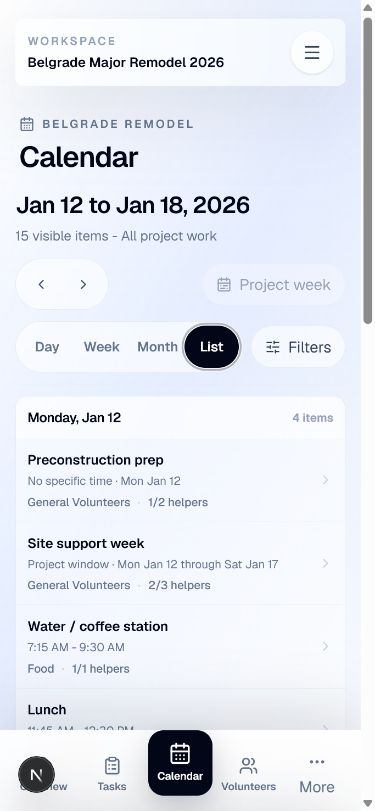
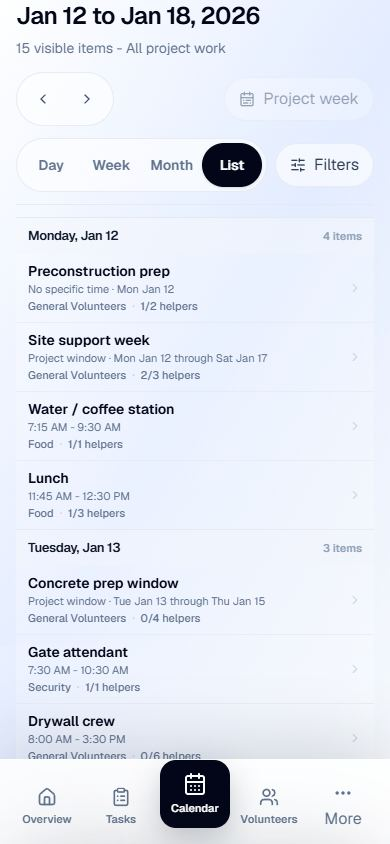
09.41 calendar list density polish

diff --git a/cvc-scheduler/app/admin/calendar/page.tsx b/cvc-scheduler/app/admin/calendar/page.tsx
@@ -1548,7 +1548,7 @@ function CalendarListView({
 
   if (groups.length === 0) {
     return (
-      <section className="rounded-xl border border-slate-200/80 bg-white/40 px-4 py-8 text-center">
+      <section className="border-y border-slate-200/80 bg-white/24 px-3 py-6 text-center">
         <p className="text-sm font-medium text-slate-500">
           No project work to show this week.
         </p>
@@ -1558,7 +1558,7 @@ function CalendarListView({
 
   return (
     <div
-      className="overflow-hidden rounded-xl border border-slate-200/80 bg-white/52"
+      className="overflow-hidden border-y border-slate-200/90 bg-white/24"
       data-testid="calendar-list-view"
     >
       {groups.map((group) => {
@@ -1567,19 +1567,19 @@ function CalendarListView({
         return (
           <section
             aria-labelledby={headingId}
-            className="border-b border-slate-200/80 last:border-b-0"
+            className="border-b border-slate-200/70 last:border-b-0"
             key={group.date}
           >
-            <header className="flex min-h-11 items-center justify-between gap-3 bg-white/46 px-3 py-2 sm:px-4">
+            <header className="flex min-h-9 items-center justify-between gap-3 bg-slate-100/38 px-3 py-1.5">
               <h3
-                className="text-sm font-semibold tracking-tight text-slate-950"
+                className="text-[13px] font-semibold tracking-tight text-slate-900"
                 id={headingId}
               >
                 <time dateTime={group.date}>
                   {getCalendarAccessibleDayLabel(group.date)}
                 </time>
               </h3>
-              <span className="shrink-0 text-xs font-semibold text-slate-400">
+              <span className="shrink-0 text-[11px] font-semibold text-slate-400">
                 {group.items.length} item{group.items.length === 1 ? "" : "s"}
               </span>
             </header>
@@ -1593,29 +1593,29 @@ function CalendarListView({
 
                 return (
                   <div
-                    className="border-t border-slate-200/70 first:border-t-0"
+                    className="border-t border-slate-200/60 first:border-t-0"
                     key={item.id}
                     role="listitem"
                   >
                     <button
                       aria-label={getCalendarListItemAccessibleLabel(item)}
                       className={[
-                        `grid min-h-16 w-full min-w-0 grid-cols-[minmax(0,1fr)_auto] items-center gap-x-3 px-3 py-3 text-left transition hover:bg-white/58 sm:min-h-14 sm:grid-cols-[minmax(0,1fr)_minmax(13rem,0.9fr)_auto_auto] sm:px-4 ${calmFocusRing}`,
+                        `grid min-h-[60px] w-full min-w-0 grid-cols-[minmax(0,1fr)_auto] items-center gap-x-2.5 px-3 py-2 text-left transition hover:bg-white/44 sm:min-h-12 sm:grid-cols-[minmax(0,1fr)_minmax(0,0.85fr)_auto_auto] sm:gap-x-3 ${calmFocusRing}`,
                         selectedId === item.id
-                          ? "bg-white/72 ring-2 ring-inset ring-slate-900/25"
+                          ? "bg-white/64 ring-2 ring-inset ring-slate-900/25"
                           : "",
                       ].join(" ")}
                       onClick={() => onSelect(item)}
                       type="button"
                     >
                       <div className="min-w-0">
-                        <p className="truncate text-sm font-semibold text-slate-950">
+                        <p className="truncate text-sm font-semibold leading-[18px] text-slate-950">
                           {getCalendarItemDisplayName(item)}
                         </p>
-                        <p className="mt-1 text-xs leading-4 text-slate-500 sm:hidden">
+                        <p className="mt-0.5 text-[11px] leading-[15px] text-slate-500 sm:hidden">
                           {scheduleLabel}
                         </p>
-                        <p className="mt-1.5 flex flex-wrap items-center gap-x-2 gap-y-1 text-xs font-medium text-slate-500 sm:hidden">
+                        <p className="mt-0.5 flex flex-wrap items-center gap-x-1.5 gap-y-0.5 text-[11px] font-medium leading-[15px] text-slate-500 sm:hidden">
                           <span>{typeLabel}</span>
                           <span aria-hidden="true" className="text-slate-300">
                             ·
@@ -1627,15 +1627,15 @@ function CalendarListView({
                       <p className="hidden min-w-0 text-xs leading-5 text-slate-500 sm:block">
                         {scheduleLabel}
                       </p>
-                      <span className="hidden whitespace-nowrap rounded-full bg-slate-100/80 px-2.5 py-1 text-xs font-semibold text-slate-600 sm:inline-flex">
+                      <span className="hidden whitespace-nowrap text-[11px] font-medium text-slate-500 sm:inline">
                         {typeLabel}
                       </span>
-                      <span className="hidden whitespace-nowrap text-xs font-semibold text-slate-600 sm:inline">
+                      <span className="hidden whitespace-nowrap text-[11px] font-semibold text-slate-600 sm:inline">
                         {getCalendarFilledLabel(item)} helpers
                       </span>
                       <ChevronRight
                         aria-hidden="true"
-                        className="h-4 w-4 shrink-0 text-slate-300 sm:hidden"
+                        className="h-3.5 w-3.5 shrink-0 text-slate-300 sm:hidden"
                       />
                     </button>
                   </div>

diff --git a/cvc-scheduler/docs/PROJECT_HISTORY.md b/cvc-scheduler/docs/PROJECT_HISTORY.md
@@ -2196,6 +2196,45 @@ Limitations:
 Next recommended step:
 - 09.41 Calendar List View Visual QA + Density Polish.
 
+## Iteration 09.41 — Calendar List View Visual QA + Density Polish
+
+Summary:
+- Flattened the List surface by removing its enclosing rounded-card treatment and retaining only quiet top/bottom framing and row dividers.
+- Reduced date headers to 36px and desktop rows to 48px so dense weeks scan as a list rather than a card stack.
+- Replaced desktop type pills with plain compact type text while preserving name, schedule, type, and helper columns.
+- Tightened mobile secondary typography and spacing to consistent 68px rows while keeping the task name prominent, all metadata readable, and the full row thumb-friendly.
+- Preserved the 09.40 grouping, sorting, one-row project-window rule, accessible names, filters, Week navigation, inspector behavior, and overlay exclusivity.
+- Hardened Calendar screenshot capture so it verifies the requested view is pressed and waits for the shared control transition before capture.
+- Refreshed only the desktop and mobile List previews through the targeted production screenshot workflow.
+
+Changed files:
+- `app/admin/calendar/page.tsx`
+- `scripts/capture-previews.mjs`
+- `docs/CALENDAR_DATA_MODEL_READINESS.md`
+- `docs/CURRENT_STATE.md`
+- `docs/PROJECT_HISTORY.md`
+- `docs/ROADMAP.md`
+- `docs/previews/latest/calendar-list.jpg`
+- `docs/previews/latest/mobile-calendar-list.jpg`
+
+Verification:
+- `npm run lint` passed.
+- `npm run build` passed.
+- Targeted production `npm run preview:screenshots` passed for `calendar-list.jpg` and `mobile-calendar-list.jpg`.
+- Desktop QA confirmed 36px headers, 48px rows, no outer radius, plain type labels, 15 unchanged rows, and no document/List overflow.
+- Mobile QA at 390px confirmed consistent 68px rows, four complete rows plus the next date header in the initial viewport, 57px-wide view controls, and no document/List overflow.
+- Food filtering returned the expected four rows; next/Project week navigation, Day/Week/Month/List switching, inspector opening, Escape/focus restoration, and mobile More exclusivity remained intact.
+- No nested interactive controls, console errors, page errors, or hydration warnings were reported in the application QA browser.
+
+Limitations:
+- This is visual density polish only; List remains local mock presentation with Week-period navigation and no List-based creation affordance.
+- Secondary mobile metadata uses compact 11px text to keep three readable lines within the 68px row; continued device testing may justify a small typography adjustment.
+- The production data/query, timezone, assignment truth, and schedule-kind limitations documented in 09.40 remain unchanged.
+- No persistence, Supabase, mutations, URL state, routes, drag/drop, resizing, Timeline view, schema, or production scheduling logic was added.
+
+Next recommended step:
+- 09.42 Calendar Interaction Regression Test Foundation.
+
 ## Documentation Maintenance Rules
 
 - Every future Codex iteration should update `PROJECT_HISTORY.md` with a concise entry.

diff --git a/cvc-scheduler/docs/ROADMAP.md b/cvc-scheduler/docs/ROADMAP.md
@@ -78,7 +78,8 @@ Rough phases:
 - 09.38 Calendar Month Density + Day View Date-Based Cleanup. Completed.
 - 09.39 Calendar Terminology Cleanup. Completed.
 - 09.40 Calendar List View Foundation. Completed.
-- 09.41 Calendar List View Visual QA + Density Polish. Next recommended step.
+- 09.41 Calendar List View Visual QA + Density Polish. Completed.
+- 09.42 Calendar Interaction Regression Test Foundation. Next recommended step.
 
 ## 4. Mid-Term Roadmap
 
@@ -136,6 +137,7 @@ Rough phases:
 - 09.39 Calendar Terminology Cleanup.
 - 09.40 Calendar List View Foundation.
 - 09.41 Calendar List View Visual QA + Density Polish.
+- 09.42 Calendar Interaction Regression Test Foundation.
 - 09 Tasks + Calendar model.
 - 10 Public volunteer portal.
 
@@ -439,6 +441,11 @@ navigation, groups visible work by date, keeps no-specific-time/date-based work
 near the top, sorts timed rows chronologically, and shows each project window
 once with its full range. Rows reuse the existing inspector and filter model;
 the view remains local mock UI rather than a new scheduling contract.
+
+The List visual polish keeps that behavior in a flatter scan: 36px date headers,
+48px desktop rows, 68px mobile rows, light dividers, plain type text on desktop,
+and no enclosing rounded-card treatment. Mobile retains the full row metadata
+and 390px overflow safety.
 
 The Calendar Week view has started moving toward the minimal time-grid
 direction: subtler horizontal separators, quieter empty-space affordances, and

diff --git a/cvc-scheduler/docs/CURRENT_STATE.md b/cvc-scheduler/docs/CURRENT_STATE.md
@@ -246,7 +246,7 @@ Upcoming UI direction:
 - The future scheduling contract distinguishes `timed`, `date_based`, `multi_day_window`, and `milestone`. Visible Calendar language now uses `Plan project work`, `Project context`, `No specific time`, and `Project window`; the current `allDay` flag and mock `All day` time-window values remain internal preview compatibility only.
 - Coverage is planned as an explicit capability rather than something inferred from schedule kind. Timed and date-based work may require helpers, multi-day project windows are informational by default, and milestones are informational only.
 - Month density now exposes more useful schedule context without changing the flat calendar direction. Current timed and compatibility date-based/multi-day items use the shared date-intersection helper, so range items appear on each relevant Month date as compact rows without adding complex horizontal spans.
-- List groups the visible week by item date, places date-based/no-specific-time work before timed rows, and sorts timed rows chronologically. Each project window appears once with its full range instead of becoming misleading per-day shift rows; every row shows task name, schedule wording, high-level type, helper fraction, and opens the existing inspector.
+- List groups the visible week by item date, places date-based/no-specific-time work before timed rows, and sorts timed rows chronologically. Each project window appears once with its full range instead of becoming misleading per-day shift rows; every row shows task name, schedule wording, high-level type, helper fraction, and opens the existing inspector. The polished surface is deliberately flat: 36px date headers, 48px desktop rows, 68px mobile rows, top/bottom framing instead of an enclosing rounded card, and plain desktop type text instead of pills.
 - Creation context copy derives from the editable draft, so it continues to say “Suggested” and stays accurate as dates, times, `No specific time`, or a `Project window` change.
 - A future Timeline / Work Plan view may be useful for dense construction or multi-day work, with date/time on the x-axis and tasks, groups, or days on the y-axis. That remains a later companion view and does not replace the standard Week calendar or the scanning-focused List companion.
 - Empty-slot creation now treats the clicked/tapped area as suggested calendar context rather than a fixed time window. Day hour rows and Week grid clicks seed specific editable start/end defaults, day-only clicks seed editable date/time defaults, and the flow remains preview-only.
@@ -287,6 +287,8 @@ Use `npm run build` and `npm run preview` for a production-like local preview, o
 The script captures key admin routes, Overview, Calendar Week/Day/Month/List, Calendar filters open, Calendar create open, Tasks, Communications overview/template/detail pages, Food overview/detail pages, Security overview/detail pages, Needs Attention, Schedule, Settings, the admin questionnaire queue, a questionnaire detail page, the Belgrade public questionnaire, and mobile checks for Overview, Calendar Week/Day/Month/List, Calendar filters open, Calendar create open, Tasks, Volunteers, Communications, Communications templates, Food overview/detail, Security overview/detail, and open admin drawer/menu from `http://127.0.0.1:3000` by default. Set `PREVIEW_BASE_URL` to override the base URL.
 
 The mobile admin screenshots use viewport-sized captures so closed off-canvas sheets do not appear in clean preview states. The clean mobile Calendar capture focuses the Calendar workspace header so date navigation and the bottom tab navigation are visible together. Focused open states cover the legacy mobile drawer, mobile More, Calendar filters, and Calendar creation.
+
+Calendar view captures wait for the client interaction to be ready, verify that the requested Day/Week/Month/List control is pressed, and allow the shared control transition to settle before capturing.
 
 Latest generated screenshots are written to `docs/previews/latest/`. A normal run clears and recreates the folder. Set `PREVIEW_CAPTURE_FILES` to a comma-separated filename list to refresh only intentional previews without removing the rest.
 
@@ -346,4 +348,4 @@ Latest generated screenshots are written to `docs/previews/latest/`. A normal ru
 
 ## 9. Next Recommended Step
 
-09.40 Calendar List View Foundation.
+09.42 Calendar Interaction Regression Test Foundation.

diff --git a/cvc-scheduler/docs/CALENDAR_DATA_MODEL_READINESS.md b/cvc-scheduler/docs/CALENDAR_DATA_MODEL_READINESS.md
@@ -123,6 +123,8 @@ Iteration 09.40 applies that presentation guidance in a mock-only List view:
 - Rows expose the task name, schedule wording, high-level type, helper fraction, and existing inspector action without creating a new entity or schedule kind.
 - Grouping and sorting remain presentation helpers. They do not define production queries, timezone behavior, or assignment truth.
 
+Iteration 09.41 keeps the same data presentation while reducing visual weight: date headers are 36px, desktop rows are 48px, mobile rows are 68px, desktop type labels are plain text, and the List uses top/bottom framing instead of a rounded container. These density choices are presentation rules only and must not become schedule-kind or coverage semantics.
+
 ## Recommended schedule rules
 
 - A scheduled item should reference exactly one reusable preset or carry one one-off task snapshot. The create boundary should reject ambiguous records containing both or neither.